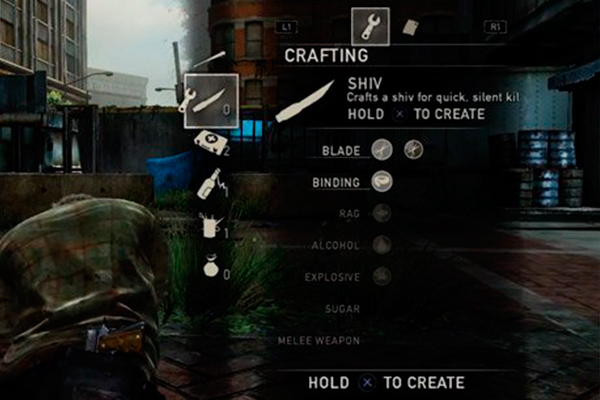
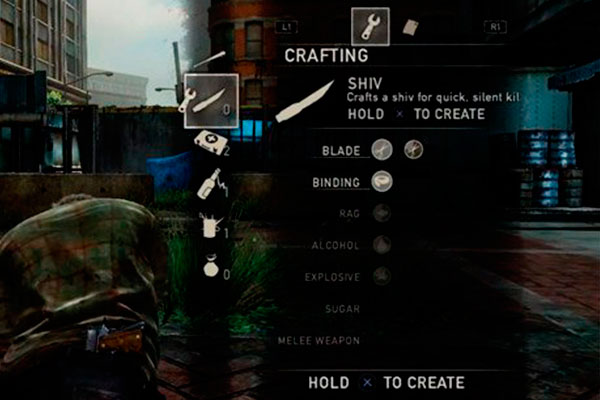
Updating files
Image files didn't work, saved again and re-uploaded. Also, adjustments
to index.html and style.css.

diff --git a/index.html b/index.html
@@ -15,7 +15,7 @@
       <img src="images/Jakes_Night_Out_logo.png" class="logo" alt="Logo">
 		  <h1 id="home">Friends. Adventure. Survival.</h1>
 		  <button class="button-right">Buy Now</button>
-      <img src="images/dark_city.png" class="background" alt="background" height="auto" width="auto">
+      <img src="images/dark_city.jpg" class="background" alt="background" height="auto" width="auto">
 
 </section><!-- end header section -->
 
@@ -66,7 +66,7 @@
   <h2 id="characters">Choose your friends wisely.</h2>
   
   <article class="jake" class="col">
-    <img src="images/jake.png" alt="Jake">
+    <img src="images/jake.jpg" alt="Jake">
 						    <h3>Meet Jake</h3>
 						    <p>A loyal and fearless leader, you will make decisions that shape the fate of your whole crew. Jake is smart, resourceful, and tough &ndash; and he always has his friends' back. But don't take advantage of his trusting nature. Jake can be ruthless, cunning and devious. Double-crossing him could be the last thing you ever do in this game.</p>
   </article> <!-- end jake article -->

diff --git a/style.css b/style.css
@@ -384,15 +384,21 @@ footer  {
     }
 
     h1  {
-        font-size: 120%;
+        font-size: 220%;
     }
 
     h2  {
-        font-size: 120%;
+        font-size: 140%;
+        font-weight: 500;
+    }
+
+    h3  {
+        font-size: 140%;
+        font-weight: 500;
     }
 
     p   {
-        font-size: 120%;
+        font-size: 140%;
     }
 
     .button-right  {
